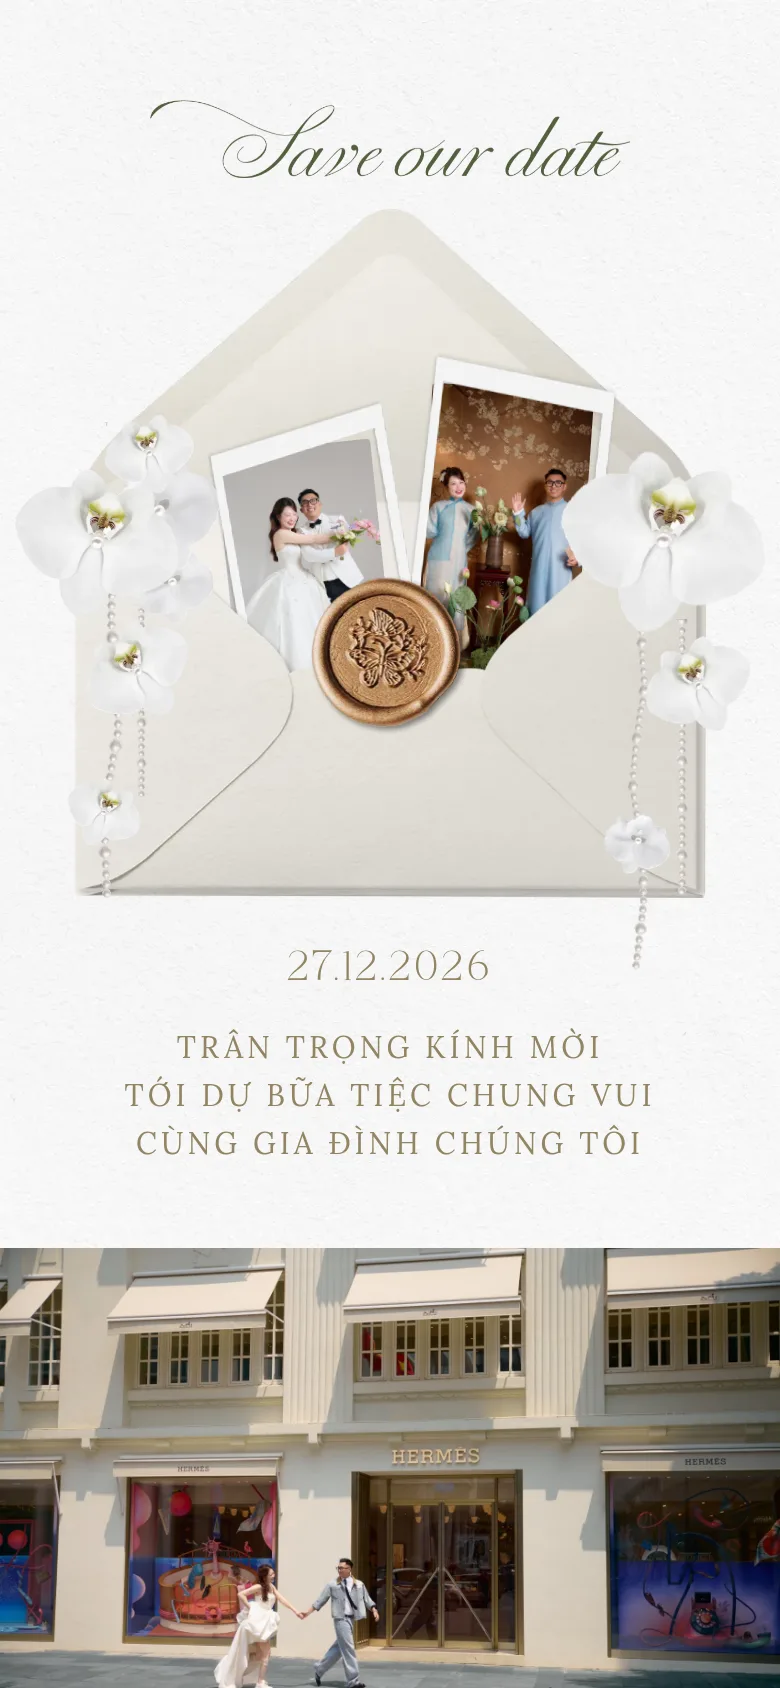
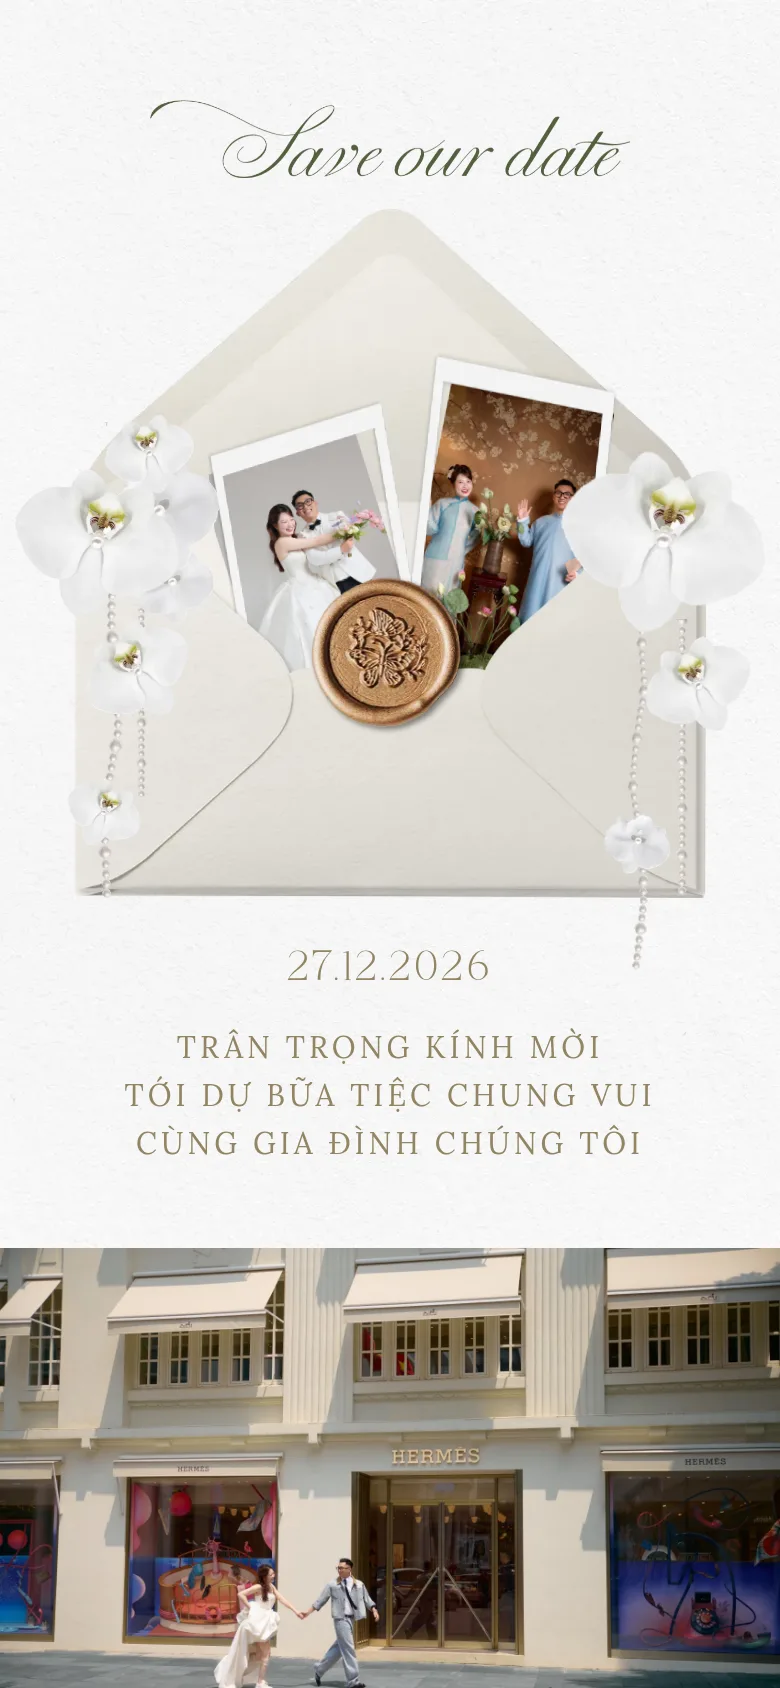
khach doan-minh-bao-anh: anh polaroid xoay theo do nghieng cua so khung (trai -11.5deg, phai +7.2deg) + can lai vi tri/kich thuoc theo cua so do that — khung anh ve san bi nghieng trong file goc, anh thang dat vao se lech

Changed region(s): [[0.2769, 0.2156, 0.7692, 0.4005]]

diff --git a/products/Invitation/Wedding/khach_doan-minh-bao-anh/index.html b/products/Invitation/Wedding/khach_doan-minh-bao-anh/index.html
@@ -173,17 +173,19 @@
         }
         /* Frame trái (element_0024_10) — xoay nhẹ phải trong ảnh */
         .polaroid-left .polaroid-photo {
-            top: 9%;
-            left: 4%;
-            width: 77%;
-            height: 67%;
+            top: 9.6%;
+            left: 8.2%;
+            width: 81%;
+            height: 69%;
+            transform: rotate(-11.5deg);
         }
         /* Frame phải (element_0023_11) — xoay nhẹ trái trong ảnh */
         .polaroid-right .polaroid-photo {
-            top: 7.5%;
-            left: 9%;
-            width: 79%;
+            top: 9.1%;
+            left: 9.1%;
+            width: 82%;
             height: 69%;
+            transform: rotate(7.2deg);
         }
         .polaroid-left {
             top: 30px; left: 15px;
